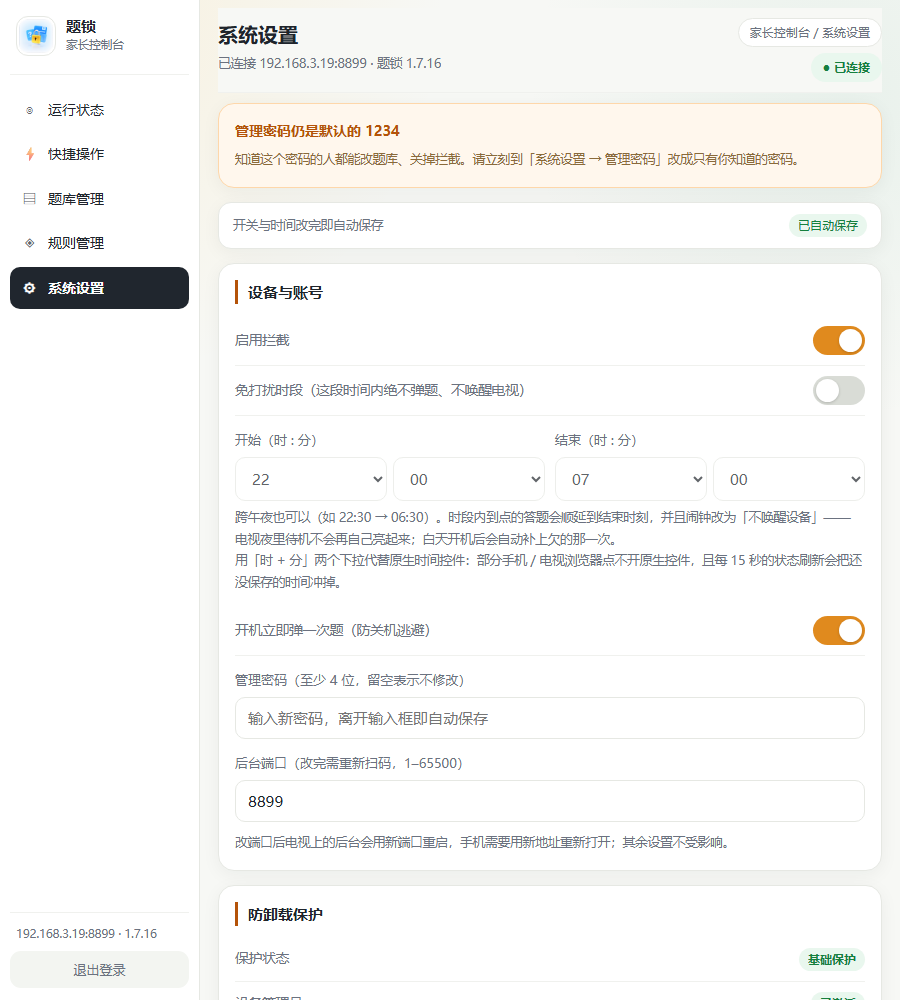
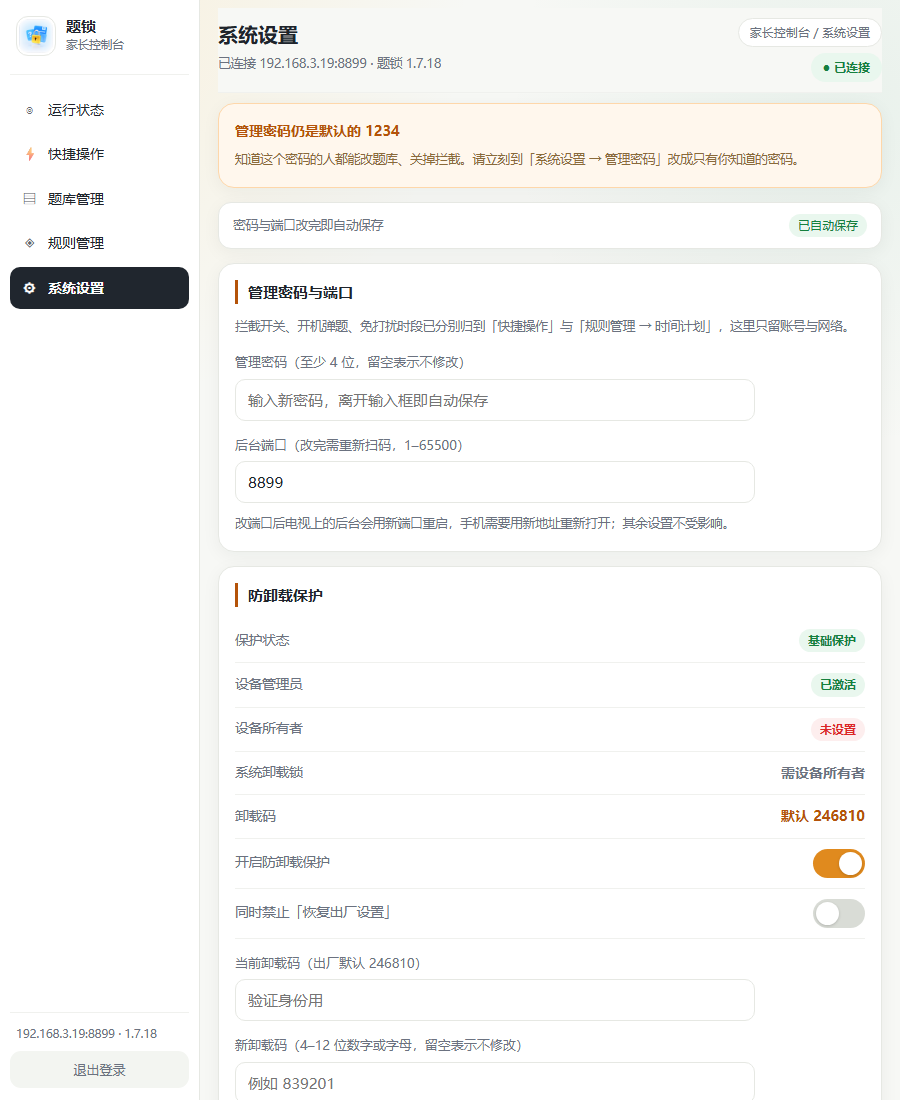
v1.7.18 设置归位：拦截/开机弹题移入快捷操作，免打扰并入规则管理，系统设置通栏
- 快捷操作：左卡「开关」= 启用拦截 / 是否开启自动弹题 / 开机立即弹一次题；右卡「立即操作」三个按钮，两卡等高
- 规则管理 → 时间计划：新增「免打扰时段」第一张卡（开关 + 时:分下拉），原系统设置里的那套删除，时间类规则集中一处
- 系统设置改为通栏（.stack）：管理密码与端口 / 防卸载保护 / 保护说明与命令各占整行，输入框与按钮限宽 520/280
- 保存徽标按当前分区路由（在规则页改免打扰显示规则页徽标）

diff --git a/app/src/main/assets/admin.html b/app/src/main/assets/admin.html
@@ -189,6 +189,9 @@
   .add{margin-top:10px;width:100%;border:1px dashed #d7c6a6;background:#fffaf1;color:var(--accent);
     border-radius:10px;padding:9px;font-size:13.5px}
   .hidden{display:none!important}
+  /* 通栏卡片里的输入框 / 按钮不必拉满整行，避免 1100px 宽的单行输入框 */
+  .stack>.card .fl+input{max-width:520px}
+  .stack>.card .win input[type=text]{max-width:520px}
 
   /* ---------------- 响应式 ---------------- */
   @media(max-width:1023px){
@@ -284,16 +287,20 @@
 
   <!-- ============================ 2. 快捷操作 ============================ -->
   <section class="view" id="view-quick">
-    <div class="cards">
+    <div class="cards" style="align-items:stretch">
       <div class="card">
-        <h2>自动弹题总开关</h2>
+        <h2>开关</h2>
+        <div class="row">
+          <span>启用拦截</span>
+          <div class="switch on" id="swEnabled"><i></i></div>
+        </div>
         <div class="row">
           <span>是否开启自动弹题</span>
           <div class="switch on" id="swAutoQuiz"><i></i></div>
         </div>
-        <div class="tip">
-          关掉后：到点不弹、开机不弹、待机中的电视也不会被叫醒；「立即弹一次题」仍可手动催。
-          重启、升级都保持关闭，想恢复再打开即可。开关改完自动保存。
+        <div class="row">
+          <span>开机立即弹一次题（防关机逃避）</span>
+          <div class="switch on" id="swBoot"><i></i></div>
         </div>
       </div>
       <div class="card">
@@ -309,6 +316,12 @@
           「立即解锁」= 家长远程放行：关掉电视上正在显示的答题弹窗，孩子可以正常看电视；下一轮从现在重新计时。
         </div>
       </div>
+    </div>
+    <div class="tip">
+      · <b>启用拦截</b>：总开关，关掉后电视上完全不弹题、也不拦任何东西，只保留后台与远程控制；<br>
+      · <b>是否开启自动弹题</b>：关掉后到点不弹、待机中的电视也不会被叫醒，「立即弹一次题」仍可手动催；<br>
+      · <b>开机立即弹一次题</b>：孩子关机逃避后一开机就先答题，重启、升级都保持该设置。<br>
+      三个开关改完自动保存，也都不会重置「下次弹题」倒计时。
     </div>
   </section>
 
@@ -400,8 +413,26 @@
     <!-- ---------- 时间计划 ---------- -->
     <div id="tab-time" class="hidden">
       <div class="panel">
+        <h2>免打扰时段</h2>
+        <p class="desc">优先级最高：命中期间绝不弹题，并且闹钟改为「不唤醒设备」——电视夜里待机不会自己亮起来，白天开机后会自动补上欠的那一次。</p>
+        <div class="body">
+          <div class="f"><div class="lbl"><b>开启免打扰</b><small>关掉后按下面的可用时段 / 周计划正常执行</small></div>
+            <div class="ctl"><div class="switch" id="swQuiet"><i></i></div></div></div>
+          <div class="f"><div class="lbl"><b>免打扰起止</b><small>可跨午夜（如 22:30 → 06:30）；时段内到点的答题顺延到结束时刻</small></div>
+            <div class="ctl" style="gap:4px">
+              <select id="inQuietStartH" style="width:auto;padding:8px 6px;font-size:14px"></select>
+              <span class="unit">:</span>
+              <select id="inQuietStartM" style="width:auto;padding:8px 6px;font-size:14px"></select>
+              <span class="unit" style="margin:0 4px">至</span>
+              <select id="inQuietEndH" style="width:auto;padding:8px 6px;font-size:14px"></select>
+              <span class="unit">:</span>
+              <select id="inQuietEndM" style="width:auto;padding:8px 6px;font-size:14px"></select>
+            </div></div>
+        </div>
+      </div>
+      <div class="panel">
         <h2>可用时段</h2>
-        <p class="desc">优先级：自动弹题总开关 / 免打扰 ＞ 大人豁免 ＞ 网课时段 ＞ 下面的可用时段。命中前三者一律不弹题，也不会唤醒待机中的电视。</p>
+        <p class="desc">优先级：免打扰 ＞ 大人豁免 ＞ 网课时段 ＞ 下面的可用时段；自动弹题总开关关掉时一律不弹。命中前三者都不会唤醒待机中的电视。</p>
         <div class="body">
           <div class="f"><div class="lbl"><b>时段用途</b><small>「只在时段内答题」＝放学后到睡前才管；「时段内自由观看」＝可用时段不弹题，其余时间照常弹</small></div>
             <div class="ctl"><select id="scheduleMode">
@@ -433,7 +464,7 @@
           <button class="add" data-add="exemptWindows">＋ 添加大人豁免</button>
         </div>
       </div>
-      <div class="note gray">「系统设置 → 免打扰时段」仍然有效，且优先级最高。这里用「时 + 分」两个下拉选时间，避免部分手机浏览器里原生时间控件点不开、或保存前被状态刷新覆盖。</div>
+      <div class="note gray">时间类规则都在这一个分段里了（免打扰 / 可用时段 / 周计划 / 网课 / 大人豁免），系统设置里不再重复一份。全部用「时 + 分」两个下拉选时间，避免部分手机浏览器里原生时间控件点不开、或被 15 秒状态刷新覆盖。</div>
     </div>
 
     <!-- ---------- 答题范围 ---------- -->
@@ -484,38 +515,14 @@
   <!-- ============================ 5. 系统设置 ============================ -->
   <section class="view" id="view-system">
     <div class="bar">
-      <div class="txt">开关与时间改完即自动保存</div>
+      <div class="txt">密码与端口改完即自动保存</div>
       <span class="badge ok" id="sysBadge">已自动保存</span>
     </div>
-    <div class="cards">
+    <div class="stack">
       <div class="card">
-        <h2>设备与账号</h2>
-        <div class="row">
-          <span>启用拦截</span>
-          <div class="switch" id="swEnabled"><i></i></div>
-        </div>
-        <div class="row">
-          <span>免打扰时段（这段时间内绝不弹题、不唤醒电视）</span>
-          <div class="switch" id="swQuiet"><i></i></div>
-        </div>
-        <div class="grid2">
-          <div>
-            <label class="fl">开始（时 : 分）</label>
-            <div class="grid2" style="gap:6px"><select id="inQuietStartH"></select><select id="inQuietStartM"></select></div>
-          </div>
-          <div>
-            <label class="fl">结束（时 : 分）</label>
-            <div class="grid2" style="gap:6px"><select id="inQuietEndH"></select><select id="inQuietEndM"></select></div>
-          </div>
-        </div>
-        <div class="tip" style="margin-top:6px">
-          跨午夜也可以（如 22:30 → 06:30）。时段内到点的答题会顺延到结束时刻，并且闹钟改为「不唤醒设备」——
-          电视夜里待机不会再自己亮起来；白天开机后会自动补上欠的那一次。<br>
-          用「时 + 分」两个下拉代替原生时间控件：部分手机 / 电视浏览器点不开原生控件，且每 15 秒的状态刷新会把还没保存的时间冲掉。
-        </div>
-        <div class="row" style="margin-top:12px">
-          <span>开机立即弹一次题（防关机逃避）</span>
-          <div class="switch on" id="swBoot"><i></i></div>
+        <h2>管理密码与端口</h2>
+        <div class="tip" style="margin-top:0">
+          拦截开关、开机弹题、免打扰时段已分别归到「快捷操作」与「规则管理 → 时间计划」，这里只留账号与网络。
         </div>
         <label class="fl">管理密码（至少 4 位，留空表示不修改）</label>
         <input type="password" id="inPinNew" placeholder="输入新密码，离开输入框即自动保存">
@@ -544,7 +551,7 @@
         <label class="fl">新卸载码（4–12 位数字或字母，留空表示不修改）</label>
         <input type="text" id="inNewCode" placeholder="例如 839201">
         <div class="btns">
-          <button class="primary" id="btnSaveCode">修改卸载码</button>
+          <button class="primary" id="btnSaveCode" style="max-width:280px">修改卸载码</button>
         </div>
         <div class="tip">改码要校验原码，所以留成按钮提交；两个开关本身是改完即存。</div>
       </div>
@@ -559,12 +566,12 @@
         </div>
         <div class="tip" id="activeAdminCmd" style="word-break:break-all;color:var(--accent)"></div>
         <div class="btns">
-          <button id="btnCopyActiveCmd">复制基础保护命令</button>
+          <button id="btnCopyActiveCmd" style="max-width:280px">复制基础保护命令</button>
         </div>
         <div class="tip">当前设备的所有者命令（彻底锁定，要求电视上没登录账号）：</div>
         <div class="tip" id="ownerCmd" style="word-break:break-all;color:var(--accent)"></div>
         <div class="btns">
-          <button id="btnCopyCmd">复制命令</button>
+          <button id="btnCopyCmd" style="max-width:280px">复制命令</button>
         </div>
       </div>
     </div>
@@ -808,11 +815,15 @@
     });
   }
 
-  // ============================================================ 系统设置：改完即存
+  // ============================================================ 参数类设置：改完即存
   var sysTimer = null, sysPending = {};
+  // 免打扰时段搬到了「规则管理 → 时间计划」，所以在规则页保存时用规则徽标，别让反馈落到隐藏的系统设置上
+  function sysBadgeId() {
+    return (curView && curView.indexOf('rules') === 0) ? 'ruleBadge' : 'sysBadge';
+  }
   function queueSettings(patch, okMsg) {
     for (var k in patch) { if (patch.hasOwnProperty(k)) { sysPending[k] = patch[k]; } }
-    setBadge('sysBadge', 'wait', '等待自动保存');
+    setBadge(sysBadgeId(), 'wait', '等待自动保存');
     clearTimeout(sysTimer);
     sysTimer = setTimeout(function () { flushSettings(okMsg); }, 500);
   }
@@ -824,9 +835,10 @@
     }
     if (!any) { return; }
     sysPending = {};
-    setBadge('sysBadge', 'wait', '正在保存…');
+    var badge = sysBadgeId();
+    setBadge(badge, 'wait', '正在保存…');
     api('/api/settings', { method: 'POST', body: JSON.stringify(body) }).then(function (r) {
-      setBadge('sysBadge', 'ok', '已自动保存');
+      setBadge(badge, 'ok', '已自动保存');
       if (body.quietStart || body.quietEnd) { quietEditing = false; }  // 已落盘，状态刷新可重新同步时间
       if (okMsg) { toast(okMsg, 2400); }
       if (body.pin) {
@@ -839,7 +851,7 @@
       }
       return loadState();
     }).catch(function (e) {
-      setBadge('sysBadge', 'err', '保存失败');
+      setBadge(badge, 'err', '保存失败');
       toast('保存失败：' + e.message, 3400);
     });
   }
